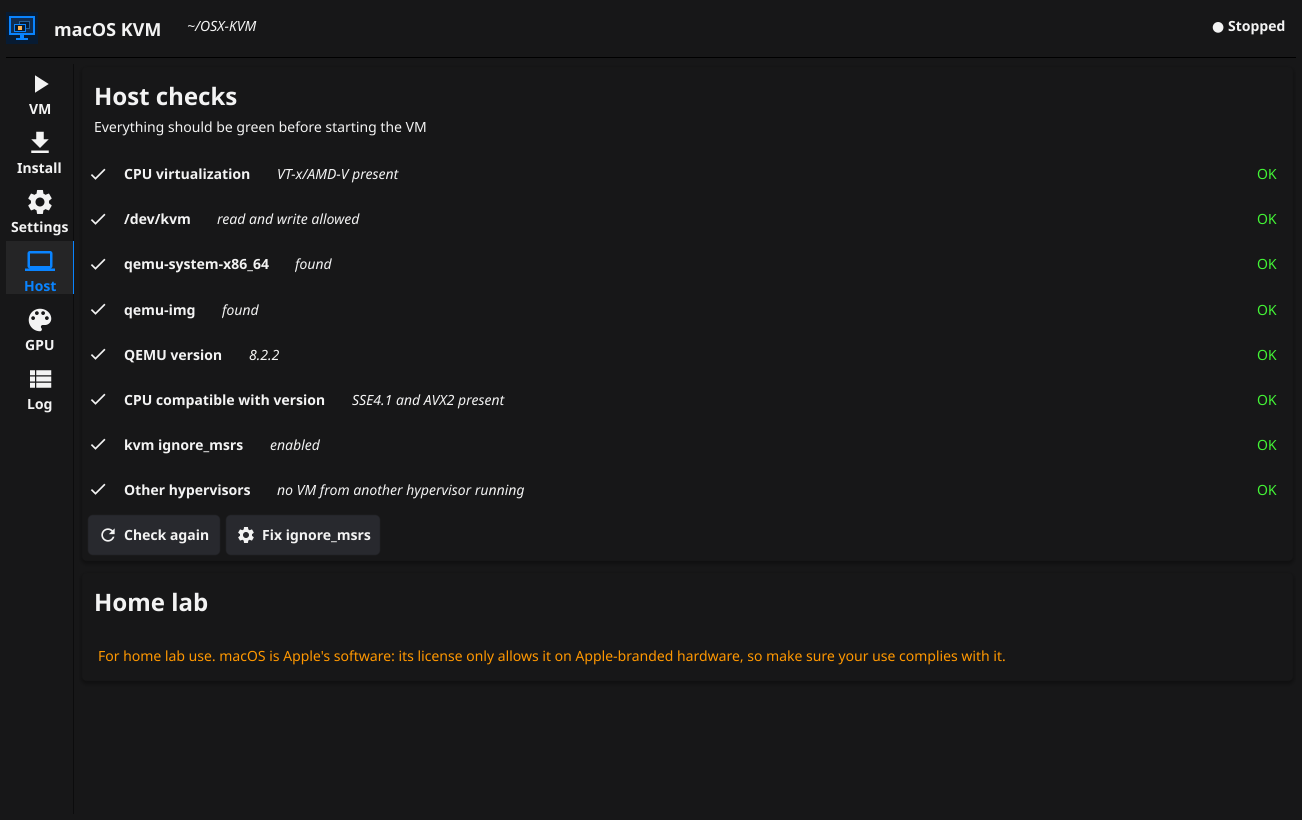
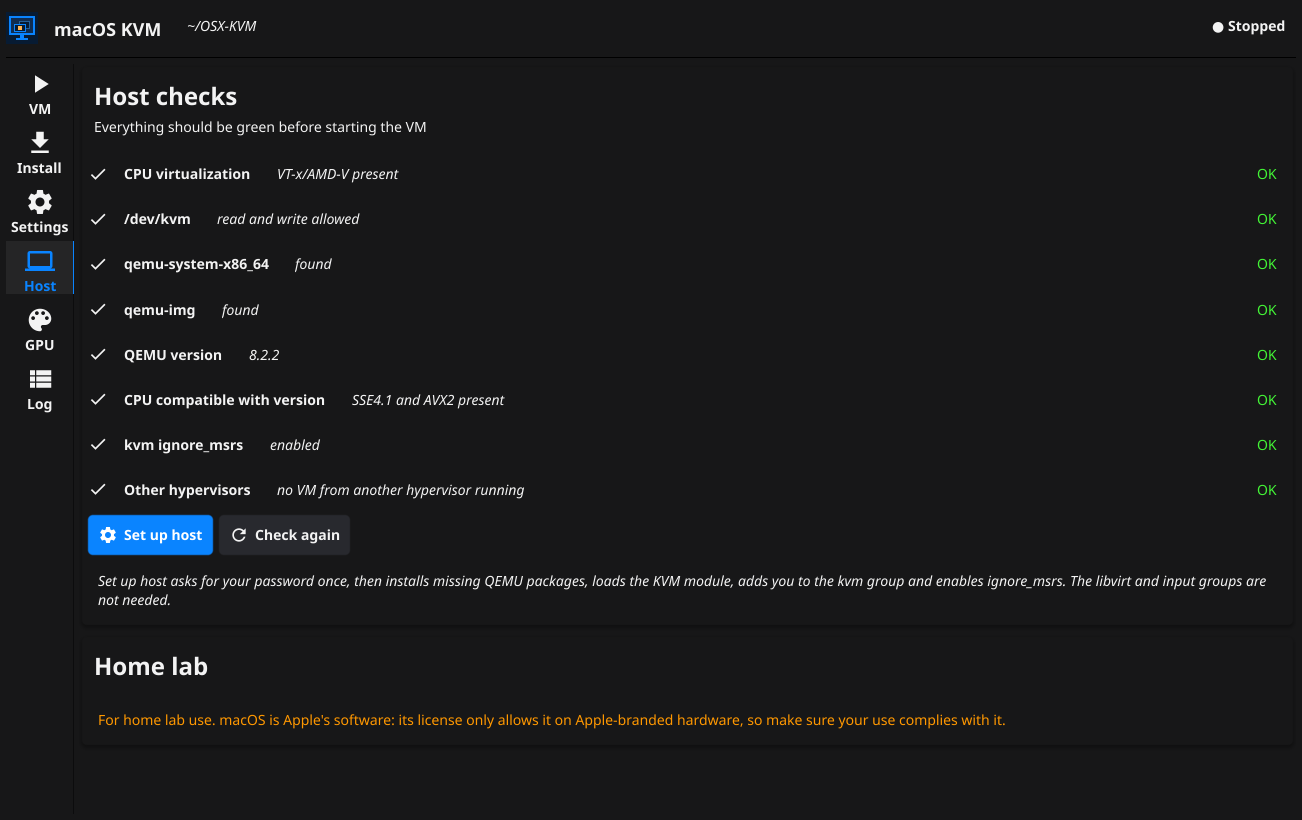
feat: one-click "Set up host" for KVM basics
One password prompt installs missing QEMU packages (apt-get), loads
kvm_amd or kvm_intel when /dev/kvm is missing, adds the user to the kvm
group and enables ignore_msrs. Constant pkexec script; user, module and
packages are validated in Go and again in the shell. The app says when
a new login is needed. libvirt and input groups are not used.

Changed region(s): [[0.0614, 0.6098, 0.9831, 0.7622], [0.0614, 0.7927, 0.768, 0.8232], [0.0922, 0.8537, 0.768, 0.8841]]

diff --git a/internal/core/host.go b/internal/core/host.go
@@ -131,9 +131,9 @@ func (h Host) checkKVM() Check {
 		f.Close()
 		c.Status, c.Detail = OK, "read and write allowed"
 	case errors.Is(err, os.ErrNotExist):
-		c.Status, c.Detail, c.Hint = Fail, "does not exist", "load the module: sudo modprobe kvm_intel (or kvm_amd)"
+		c.Status, c.Detail, c.Hint = Fail, "does not exist", "use Set up host (loads kvm_amd or kvm_intel)"
 	case errors.Is(err, os.ErrPermission):
-		c.Status, c.Detail, c.Hint = Fail, "permission denied", "sudo usermod -aG kvm $USER and log in again"
+		c.Status, c.Detail, c.Hint = Fail, "permission denied", "use Set up host (adds you to the kvm group), then log out and back in"
 	default:
 		c.Status, c.Detail = Fail, err.Error()
 	}
@@ -191,7 +191,7 @@ func (h Host) checkMSRs() Check {
 	case v == "Y" || v == "1":
 		c.Status, c.Detail = OK, "enabled"
 	default:
-		c.Status, c.Detail, c.Hint = Fail, "disabled: macOS will kernel panic", "use the Fix ignore_msrs button"
+		c.Status, c.Detail, c.Hint = Fail, "disabled: macOS will kernel panic", "use Set up host"
 	}
 	return c
 }
@@ -263,4 +263,61 @@ func (h Host) FixIgnoreMSRs() error {
 	default:
 		return errors.New("the fix was not applied")
 	}
+}
+
+// setupScript is constant: user, KVM module and packages arrive as $1, $2 and $3 and are
+// checked again here. Packages are installed only when some are missing.
+const setupScript = `case "$1" in ""|-*|*[!a-z0-9_.-]*) echo "invalid user name" >&2; exit 2;; esac
+case "$2" in kvm_intel|kvm_amd) ;; *) echo "invalid KVM module" >&2; exit 2;; esac
+case "$3" in *[!a-z0-9.+\ -]*) echo "invalid package list" >&2; exit 2;; esac
+if [ -n "$3" ]; then
+  command -v apt-get >/dev/null || { echo "apt-get not found: install $3 with your package manager" >&2; exit 3; }
+  DEBIAN_FRONTEND=noninteractive apt-get install -y $3 || exit 1
+fi
+[ -e /dev/kvm ] || modprobe "$2" || { echo "could not load $2: enable virtualization in the BIOS" >&2; exit 1; }
+getent group kvm >/dev/null || groupadd --system kvm || exit 1
+usermod -aG kvm "$1" || exit 1
+echo 1 > /sys/module/kvm/parameters/ignore_msrs || exit 1
+printf 'options kvm ignore_msrs=1 report_ignored_msrs=0\n' > /etc/modprobe.d/macos-kvm-gui.conf || exit 1`
+
+var userNameRe = regexp.MustCompile(`^[a-z_][a-z0-9_.-]*$`)
+
+// SetupHost does, with one password prompt, the basics KVM needs: missing QEMU packages,
+// the KVM module, kvm group membership and ignore_msrs. It returns what the user still has
+// to do, such as logging in again for the new group to apply.
+func (h Host) SetupHost(user string) (string, error) {
+	if !userNameRe.MatchString(user) {
+		return "", fmt.Errorf("unexpected user name %q", user)
+	}
+	flags := h.cpuFlags()
+	module := ""
+	switch {
+	case flags["svm"]:
+		module = "kvm_amd"
+	case flags["vmx"]:
+		module = "kvm_intel"
+	default:
+		return "", errors.New("the CPU reports no VT-x/AMD-V: enable virtualization in the BIOS/UEFI first")
+	}
+	var pkgs []string
+	for _, t := range tools {
+		if _, err := h.LookPath(t.bin); err != nil {
+			pkgs = append(pkgs, t.pkg)
+		}
+	}
+	err := h.Run("pkexec", "/bin/sh", "-c", setupScript, "sh", user, module, strings.Join(pkgs, " "))
+	var ee *exec.ExitError
+	if errors.As(err, &ee) && ee.ExitCode() == 126 {
+		return "", ErrCancelled
+	}
+	if err != nil {
+		return "", fmt.Errorf("host setup failed: %w", err)
+	}
+	if h.checkMSRs().Status != OK {
+		return "", errors.New("host setup ran, but ignore_msrs is still disabled")
+	}
+	if h.checkKVM().Status != OK {
+		return user + " was added to the kvm group: log out and back in (or reboot) so /dev/kvm opens.", nil
+	}
+	return "The host is ready for KVM.", nil
 }

diff --git a/internal/core/host_test.go b/internal/core/host_test.go
@@ -154,3 +154,62 @@ func TestFixIgnoreMSRs(t *testing.T) {
 		t.Fatalf("expected pkexec error: %v", err)
 	}
 }
+
+func TestSetupHost(t *testing.T) {
+	h := fakeHost(t, "svm avx2", "N")
+	h.LookPath = func(s string) (string, error) {
+		if s == "qemu-img" {
+			return "", exec.ErrNotFound
+		}
+		return "/usr/bin/" + s, nil
+	}
+	h.Run = func(name string, args ...string) error {
+		if name != "pkexec" || args[2] != setupScript || args[4] != "nilton" || args[5] != "kvm_amd" || args[6] != "qemu-utils" {
+			t.Fatalf("unexpected command: %s %q", name, args[3:])
+		}
+		write(t, h.msrsPath(), "Y")
+		return nil
+	}
+	msg, err := h.SetupHost("nilton")
+	if err != nil || !strings.Contains(msg, "ready") {
+		t.Fatalf("setup: %q %v", msg, err)
+	}
+
+	os.Chmod(h.DevKVM, 0)
+	if os.Geteuid() != 0 {
+		if msg, _ := h.SetupHost("nilton"); !strings.Contains(msg, "log out") {
+			t.Errorf("new group membership needs a new login: %q", msg)
+		}
+	}
+
+	h.Run = func(string, ...string) error { return exitErr(126) }
+	if _, err := h.SetupHost("nilton"); !errors.Is(err, ErrCancelled) {
+		t.Errorf("126 must be cancelled: %v", err)
+	}
+	h.Run = func(string, ...string) error { t.Fatal("must not elevate"); return nil }
+	if _, err := h.SetupHost("bad;user"); err == nil {
+		t.Error("invalid user names must be refused before elevation")
+	}
+	noVirt := fakeHost(t, "fpu", "N")
+	noVirt.Run = h.Run
+	if _, err := noVirt.SetupHost("nilton"); err == nil || !strings.Contains(err.Error(), "BIOS") {
+		t.Errorf("no VT-x/AMD-V: %v", err)
+	}
+}
+
+// The real shell must reject hostile arguments before running anything.
+func TestSetupScriptRejectsInjection(t *testing.T) {
+	for _, args := range [][]string{
+		{"-o", "kvm_amd", ""},
+		{"nilton;reboot", "kvm_amd", ""},
+		{"nilton", "kvm_amd;reboot", ""},
+		{"nilton", "kvm_amd", "qemu-utils;reboot"},
+		{"nilton", "kvm_amd", "$(id)"},
+	} {
+		err := exec.Command("/bin/sh", append([]string{"-c", setupScript, "sh"}, args...)...).Run()
+		var ee *exec.ExitError
+		if !errors.As(err, &ee) || ee.ExitCode() != 2 {
+			t.Errorf("%q: expected exit 2, got %v", args, err)
+		}
+	}
+}

diff --git a/main.go b/main.go
@@ -5,6 +5,7 @@ import (
 	"context"
 	"errors"
 	"fmt"
+	osuser "os/user"
 	"runtime"
 	"strconv"
 	"strings"
@@ -238,27 +239,36 @@ func statusIcon(s core.Status) fyne.Resource {
 func (u *ui) hostTab() fyne.CanvasObject {
 	u.checks = container.NewVBox()
 	recheck := widget.NewButtonWithIcon("Check again", theme.ViewRefreshIcon(), u.refreshChecks)
-	fix := widget.NewButtonWithIcon("Fix ignore_msrs", theme.SettingsIcon(), func() {
+	fix := widget.NewButtonWithIcon("Set up host", theme.SettingsIcon(), func() {
+		me, err := osuser.Current()
+		if err != nil {
+			dialog.ShowError(err, u.win)
+			return
+		}
 		go func() {
-			err := u.host.FixIgnoreMSRs()
+			msg, err := u.host.SetupHost(me.Username)
 			fyne.Do(func() {
 				switch {
 				case errors.Is(err, core.ErrCancelled):
-					dialog.ShowInformation("ignore_msrs", "Cancelled: nothing was changed.", u.win)
+					dialog.ShowInformation("Set up host", "Cancelled: nothing was changed.", u.win)
 				case err != nil:
 					dialog.ShowError(err, u.win)
 				default:
-					dialog.ShowInformation("ignore_msrs", "ignore_msrs enabled and persisted in /etc/modprobe.d/macos-kvm-gui.conf.", u.win)
+					dialog.ShowInformation("Set up host", msg, u.win)
 				}
 				u.refreshChecks()
 			})
 		}()
 	})
+	fix.Importance = widget.HighImportance
+	setupNote := wrapped("Set up host asks for your password once, then installs missing QEMU packages, loads the KVM module, " +
+		"adds you to the kvm group and enables ignore_msrs. The libvirt and input groups are not needed.")
+	setupNote.TextStyle = fyne.TextStyle{Italic: true}
 	notice := wrapped(homeLab)
 	notice.Importance = widget.WarningImportance
 	return container.NewVScroll(container.NewVBox(
 		section("Host checks", "Everything should be green before starting the VM",
-			u.checks, container.NewHBox(recheck, fix)),
+			u.checks, container.NewHBox(fix, recheck), setupNote),
 		section("Home lab", "", notice),
 	))
 }

diff --git a/openspec/changes/add-desktop-gui/specs/host-preflight/spec.md b/openspec/changes/add-desktop-gui/specs/host-preflight/spec.md
@@ -69,3 +69,18 @@ The system SHALL offer an action ("Fix ignore_msrs") that, with privilege elevat
 #### Scenario: Elevation error
 - **WHEN** the elevation mechanism returns an error that is not a cancellation
 - **THEN** the system shows the returned error and nothing is reported as applied without verification
+
+### Requirement: Assisted host setup
+The system SHALL offer a "Set up host" action that, with one privilege prompt and a constant script taking the user name, KVM module and package list as validated arguments, installs missing QEMU packages, loads the KVM module, adds the user to the kvm group and enables ignore_msrs, and SHALL say when a new login is needed.
+
+#### Scenario: Fresh host
+- **WHEN** qemu-utils is missing and the user is not in the kvm group
+- **THEN** the package is installed, the user is added to the kvm group, ignore_msrs is enabled and the app says to log out and back in
+
+#### Scenario: Hostile arguments
+- **WHEN** the user name, module or package list contains characters outside their allowed sets
+- **THEN** the script exits before changing anything
+
+#### Scenario: Groups not needed
+- **WHEN** the user runs the setup
+- **THEN** the user is not added to the libvirt or input groups
